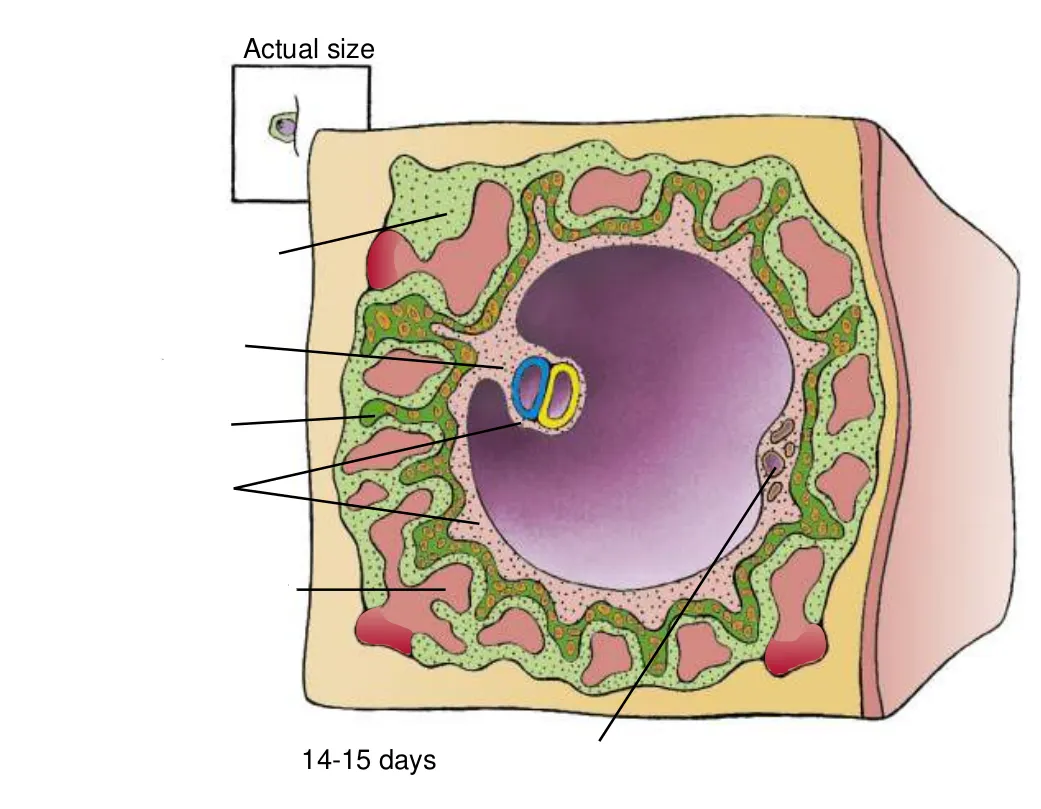
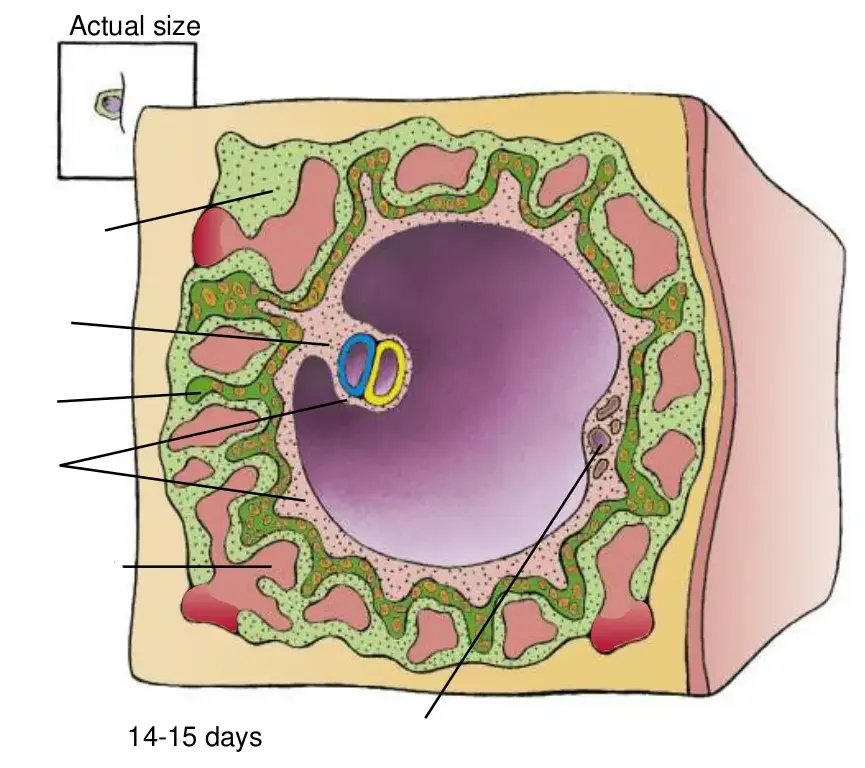
Changes to be committed: 	modified:   input/1112jour.webp 	modified:   input/1415jour.webp 	modified:   stades_embryo/index.html 	modified:   styles.css

diff --git a/stades_embryo/index.html b/stades_embryo/index.html
@@ -165,7 +165,7 @@
 
     <div style="text-align: center;">
       <figure>
-          <img src="https://wsieg.github.io/Embryologie/input/hatchin.webp" alt="Foetus">
+          <img src="https://wsieg.github.io/Embryologie/input/hatching.webp" alt="Foetus">
           <figcaption style="text-align: center;">Eclosion du blastocyste. 1: zone pellucide, 2: trophoblaste, 3: hypoblaste, 4: cavité amniotique, 5: épiblaste.</figcaption>
         </figure>
   </div>
@@ -298,19 +298,19 @@
     <div class="row">
       <div class="column">
           <figure style="margin-right: 20px;">
-              <img src="https://wsieg.github.io/Embryologie/input/impl_9.webp" style="width: 30%;" alt="Impl 9" class="full-width">
+              <img src="https://wsieg.github.io/Embryologie/input/impl_9.webp" style="width: 100%;" alt="Impl 9" class="full-width">
               <figcaption style="text-align: center;" class="full-width">9e jour. 8: amnios, 9: bouchon de fibrine, 10: lacune du trophoblaste, 11: hypoblaste en prolifération (membrane de Heuser)</figcaption>
           </figure>
         </div>
-        <div class="column"></div>
+        <div class="column">
           <figure style="margin-right: 20px;">
-              <img src="https://wsieg.github.io/Embryologie/input/impl_10.webp" style="width: 30%;" alt="Impl 10" class="full-width">
+              <img src="https://wsieg.github.io/Embryologie/input/impl_10.webp" style="width: 100%;" alt="Impl 10" class="full-width">
               <figcaption style="text-align: center;" class="full-width">9-10e jour. 1: hypoblaste en prolifération, 2: érosion des capillaires maternels</figcaption>
           </figure>
         </div>
-        <div class="column"></div>
+        <div class="column">
           <figure>
-              <img src="https://wsieg.github.io/Embryologie/input/impl_11.webp" style="width: 30%;" alt="Impl 11" class="full-width">
+              <img src="https://wsieg.github.io/Embryologie/input/impl_11.webp" style="width: 100%;" alt="Impl 11" class="full-width">
               <figcaption style="text-align: center;" class="full-width">10-11e jour. 3: réticulum extra-embryonnaire, 4: membrane de Heuser, 5: cavité amniotique, 6 et 7: trophoblaste, 8: lacune remplie de sang</figcaption>
           </figure>
         </div>
@@ -340,10 +340,10 @@
     </p>
 
     <div class="row">
-      <div class="column">
+      <div class="column2">
         <img src="https://wsieg.github.io/Embryologie/input/1112jour.webp" style="width: 100%;" alt="1112jour">
         </div>
-        <div class="column">
+        <div class="column2">
         <img src="https://wsieg.github.io/Embryologie/input/1415jour.webp" style="width: 100%;" alt="1415jour">
         </div>
     </div>

diff --git a/styles.css b/styles.css
@@ -29,14 +29,16 @@ img {
     display: block;
 }
 figcaption{
-    max-width: 50%;
+    max-width: 100%;
     display: block;
+    margin-bottom: 30px;
 }
 
 .h5p-iframe {
     max-width: 95%; /* Adjust the max-width as needed */
     display: inline-block;
     /* Add any other styles specific to the H5P iframe */
+    margin-bottom: 30px;
 }
 .video-iframe {
     max-width: 75% !important;
@@ -67,6 +69,7 @@ ul.objectives {
     border-radius: 10px; /* Add border-radius to create rounded corners */
     list-style-position: inside; /* Ensure bullets are inside the rectangle */
     border: 2px solid #717171; /* Add border with desired color */
+    margin-bottom: 30px;
 }
 .video-iframe {
     width: 50%;
@@ -98,6 +101,12 @@ ul.objectives li {
     width: 33.33%;
     padding: 5px;
   }
+
+  .column2 {
+    float: left;
+    width: 50%;
+    padding: 5px;
+  }
   
   /* Clearfix (clear floats) */
   .row::after {
@@ -109,6 +118,13 @@ ul.objectives li {
   /* Responsive layout - makes the three columns stack on top of each other instead of next to each other */
   @media screen and (max-width: 500px) {
     .column {
+      width: 100%;
+    }
+  }
+
+  /* Responsive layout - makes the three columns stack on top of each other instead of next to each other */
+@media screen and (max-width: 500px) {
+    .column2 {
       width: 100%;
     }
   }
